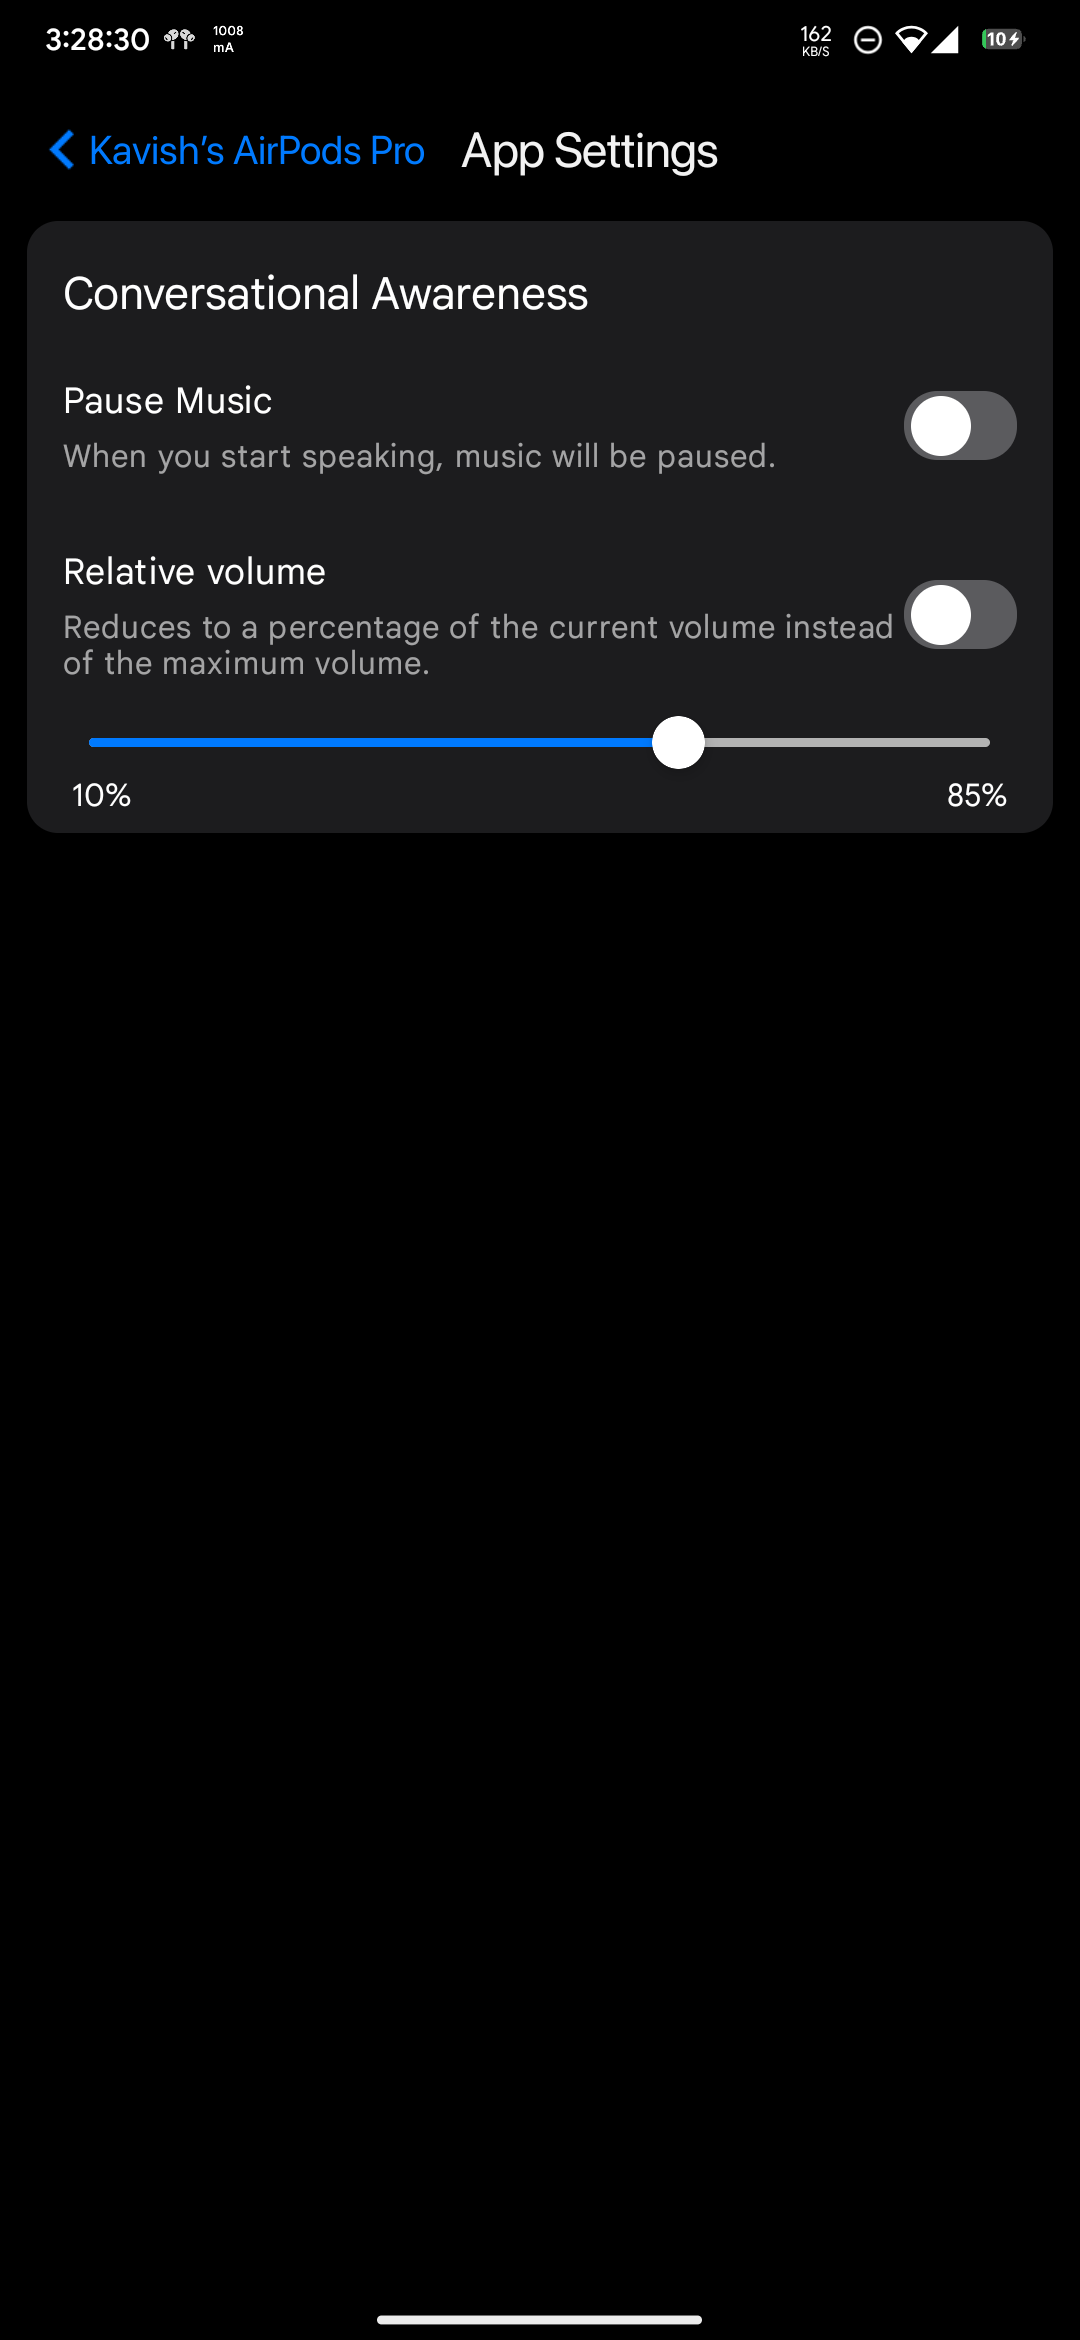
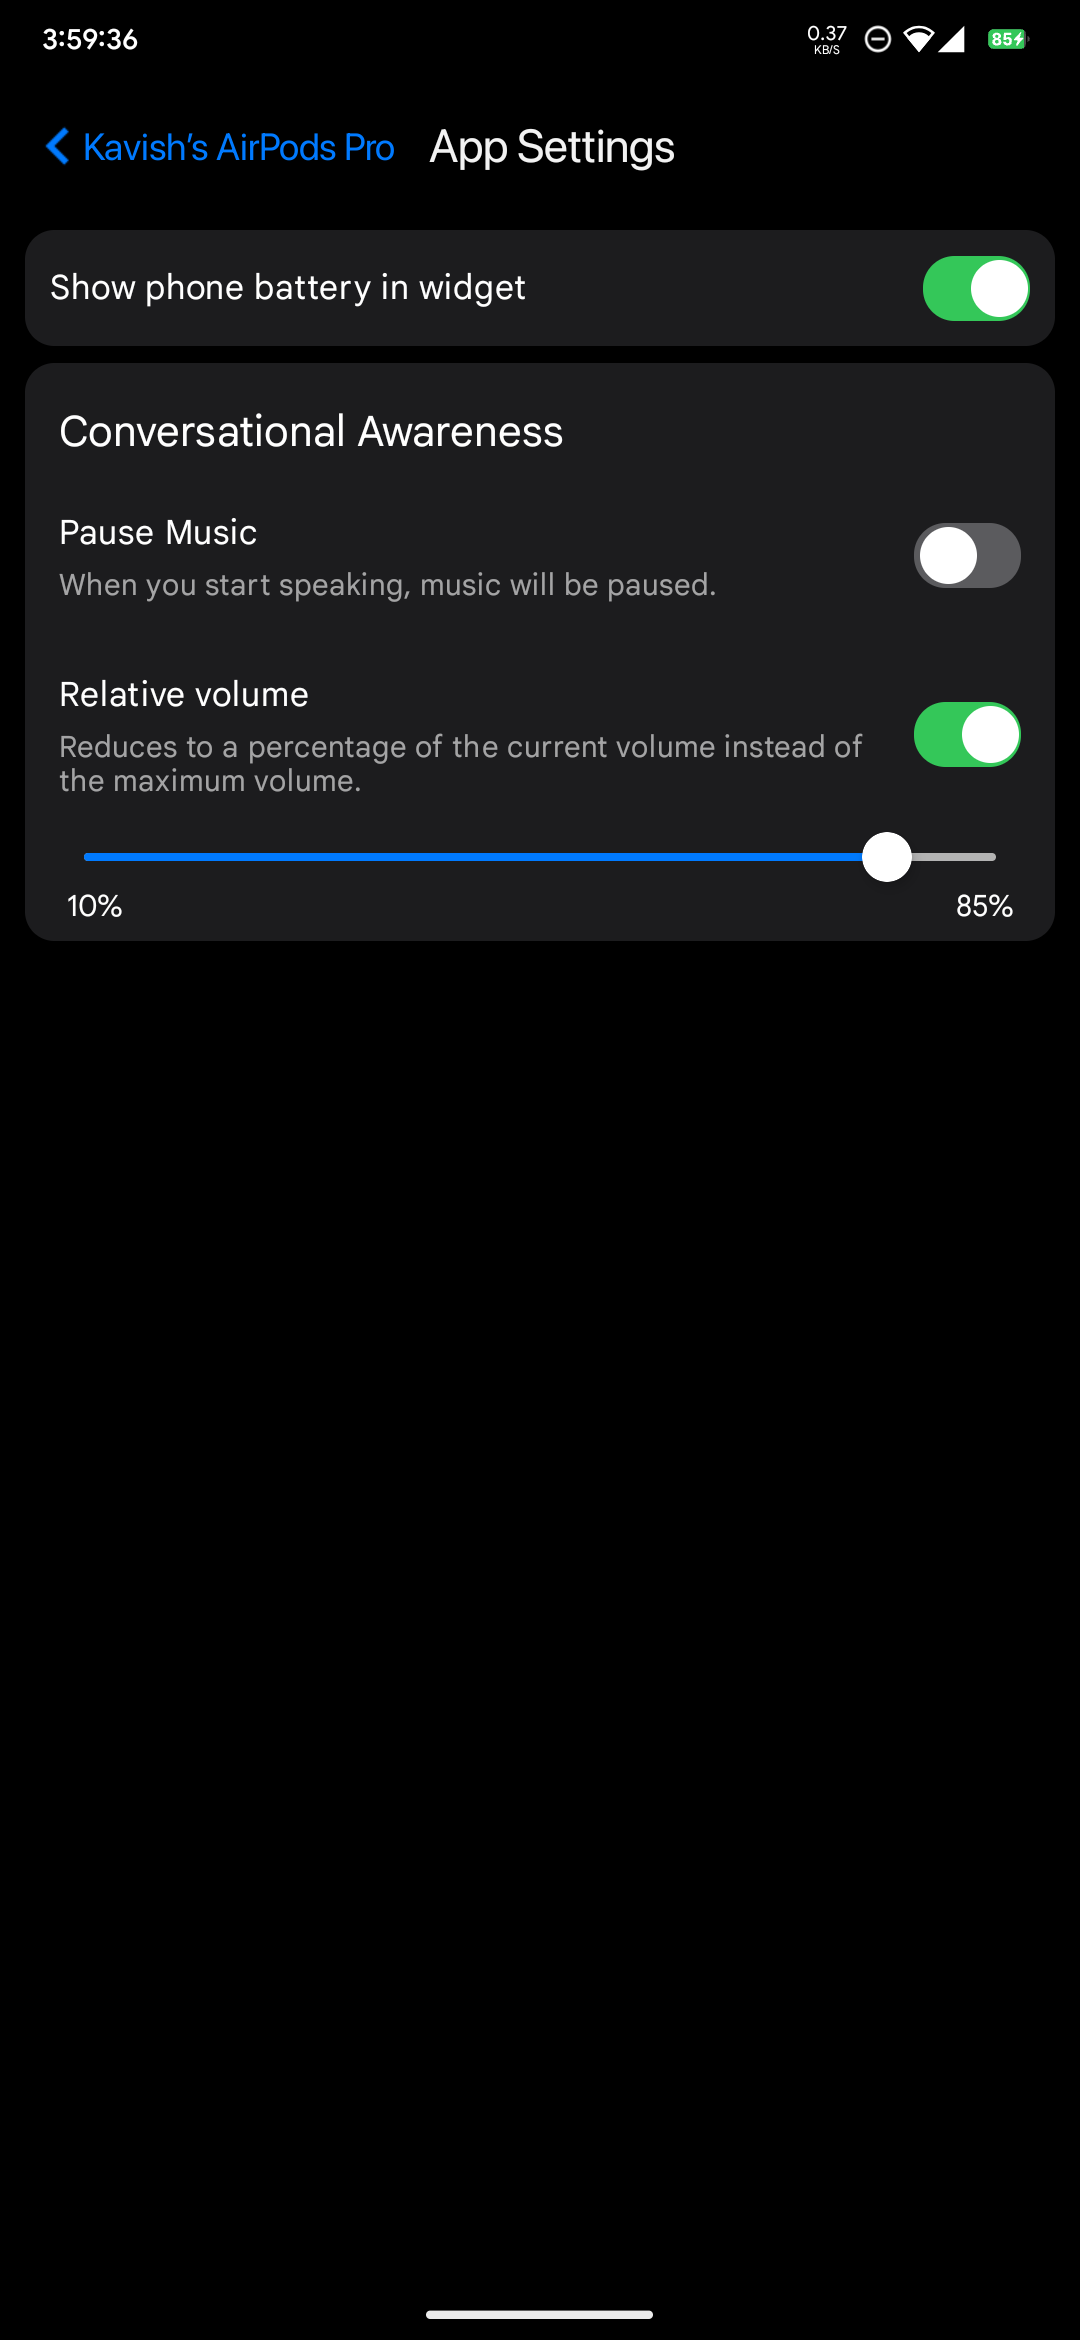
add info button for when remotely connected

diff --git a/android/app/src/main/java/me/kavishdevar/aln/screens/AirPodsSettingsScreen.kt b/android/app/src/main/java/me/kavishdevar/aln/screens/AirPodsSettingsScreen.kt
@@ -1,17 +1,17 @@
 /*
  * AirPods like Normal (ALN) - Bringing Apple-only features to Linux and Android for seamless AirPods functionality!
- * 
+ *
  * Copyright (C) 2024 Kavish Devar
- * 
+ *
  * This program is free software: you can redistribute it and/or modify
  * it under the terms of the GNU Affero General Public License as published
  * by the Free Software Foundation, either version 3 of the License.
- * 
+ *
  * This program is distributed in the hope that it will be useful,
  * but WITHOUT ANY WARRANTY; without even the implied warranty of
  * MERCHANTABILITY or FITNESS FOR A PARTICULAR PURPOSE.  See the
  * GNU Affero General Public License for more details.
- * 
+ *
  * You should have received a copy of the GNU Affero General Public License
  * along with this program. If not, see <https://www.gnu.org/licenses/>.
  */
@@ -34,6 +34,7 @@ import androidx.compose.foundation.layout.padding
 import androidx.compose.foundation.rememberScrollState
 import androidx.compose.foundation.verticalScroll
 import androidx.compose.material.icons.Icons
+import androidx.compose.material.icons.filled.Info
 import androidx.compose.material.icons.filled.Settings
 import androidx.compose.material3.CenterAlignedTopAppBar
 import androidx.compose.material3.ExperimentalMaterial3Api
@@ -41,6 +42,9 @@ import androidx.compose.material3.Icon
 import androidx.compose.material3.IconButton
 import androidx.compose.material3.IconButtonDefaults
 import androidx.compose.material3.Scaffold
+import androidx.compose.material3.SnackbarDuration
+import androidx.compose.material3.SnackbarHost
+import androidx.compose.material3.SnackbarHostState
 import androidx.compose.material3.Text
 import androidx.compose.material3.TopAppBarDefaults
 import androidx.compose.runtime.Composable
@@ -50,6 +54,7 @@ import androidx.compose.runtime.getValue
 import androidx.compose.runtime.mutableFloatStateOf
 import androidx.compose.runtime.mutableStateOf
 import androidx.compose.runtime.remember
+import androidx.compose.runtime.rememberCoroutineScope
 import androidx.compose.runtime.setValue
 import androidx.compose.ui.Alignment
 import androidx.compose.ui.Modifier
@@ -74,6 +79,7 @@ import dev.chrisbanes.haze.haze
 import dev.chrisbanes.haze.hazeChild
 import dev.chrisbanes.haze.materials.CupertinoMaterials
 import dev.chrisbanes.haze.materials.ExperimentalHazeMaterialsApi
+import kotlinx.coroutines.launch
 import me.kavishdevar.aln.R
 import me.kavishdevar.aln.composables.AccessibilitySettings
 import me.kavishdevar.aln.composables.AudioSettings
@@ -117,9 +123,19 @@ fun AirPodsSettingsScreen(dev: BluetoothDevice?, service: AirPodsService,
         }
     }
 
-
     val verticalScrollState  = rememberScrollState()
     val hazeState = remember { HazeState() }
+    val snackbarHostState = remember { SnackbarHostState() }
+    val coroutineScope = rememberCoroutineScope()
+
+    fun showSnackbar(message: String) {
+        coroutineScope.launch {
+            snackbarHostState.showSnackbar(
+                message = message,
+                duration = SnackbarDuration.Short
+            )
+        }
+    }
 
     @SuppressLint("UnusedMaterial3ScaffoldPaddingParameter")
     Scaffold(
@@ -131,47 +147,48 @@ fun AirPodsSettingsScreen(dev: BluetoothDevice?, service: AirPodsService,
         topBar = {
             val darkMode = isSystemInDarkTheme()
             val mDensity = remember { mutableFloatStateOf(1f) }
-                CenterAlignedTopAppBar(
-                    title = {
-                        Text(
-                            text = deviceName.text,
-                            style = TextStyle(
-                                fontSize = 20.sp,
-                                fontWeight = FontWeight.Medium,
-                                color = if (darkMode) Color.White else Color.Black,
-                                fontFamily = FontFamily(Font(R.font.sf_pro))
+            CenterAlignedTopAppBar(
+                title = {
+                    Text(
+                        text = deviceName.text,
+                        style = TextStyle(
+                            fontSize = 20.sp,
+                            fontWeight = FontWeight.Medium,
+                            color = if (darkMode) Color.White else Color.Black,
+                            fontFamily = FontFamily(Font(R.font.sf_pro))
+                        )
+                    )
+                },
+                modifier = Modifier
+                    .hazeChild(
+                        state = hazeState,
+                        style = CupertinoMaterials.thick(),
+                        block = {
+                            alpha =
+                                if (verticalScrollState.value > 60.dp.value * mDensity.floatValue) 1f else 0f
+                        }
+                    )
+                    .drawBehind {
+                        mDensity.floatValue = density
+                        val strokeWidth = 0.7.dp.value * density
+                        val y = size.height - strokeWidth / 2
+                        if (verticalScrollState.value > 60.dp.value * density) {
+                            drawLine(
+                                if (darkMode) Color.DarkGray else Color.LightGray,
+                                Offset(0f, y),
+                                Offset(size.width, y),
+                                strokeWidth
                             )
-                        )
+                        }
                     },
-                    modifier = Modifier
-                        .hazeChild(
-                            state = hazeState,
-                            style = CupertinoMaterials.thick(),
-                            block = {
-                                alpha =
-                                    if (verticalScrollState.value > 55.dp.value * mDensity.floatValue) 1f else 0f
-                            }
-                        )
-                        .drawBehind {
-                            mDensity.floatValue = density
-                            val strokeWidth = 0.7.dp.value * density
-                            val y = size.height - strokeWidth / 2
-                            if (verticalScrollState.value > 55.dp.value * density) {
-                                drawLine(
-                                    if (darkMode) Color.DarkGray else Color.LightGray,
-                                    Offset(0f, y),
-                                    Offset(size.width, y),
-                                    strokeWidth
-                                )
-                            }
-                        },
-                    colors = TopAppBarDefaults.centerAlignedTopAppBarColors(
-                        containerColor = Color.Transparent
-                    ),
-                    actions = {
+                colors = TopAppBarDefaults.centerAlignedTopAppBarColors(
+                    containerColor = Color.Transparent
+                ),
+                actions = {
+                    if (isRemotelyConnected) {
                         IconButton(
                             onClick = {
-                                navController.navigate("app_settings")
+                                showSnackbar("Connected remotely to AirPods via Linux.")
                             },
                             colors = IconButtonDefaults.iconButtonColors(
                                 containerColor = Color.Transparent,
@@ -179,13 +196,29 @@ fun AirPodsSettingsScreen(dev: BluetoothDevice?, service: AirPodsService,
                             )
                         ) {
                             Icon(
-                                imageVector = Icons.Default.Settings,
-                                contentDescription = "Settings",
+                                imageVector = Icons.Default.Info,
+                                contentDescription = "Info",
                             )
                         }
                     }
-                )
-        }
+                    IconButton(
+                        onClick = {
+                            navController.navigate("app_settings")
+                        },
+                        colors = IconButtonDefaults.iconButtonColors(
+                            containerColor = Color.Transparent,
+                            contentColor = if (isSystemInDarkTheme()) Color.White else Color.Black
+                        )
+                    ) {
+                        Icon(
+                            imageVector = Icons.Default.Settings,
+                            contentDescription = "Settings",
+                        )
+                    }
+                }
+            )
+        },
+        snackbarHost = { SnackbarHost(snackbarHostState) }
     ) { paddingValues ->
         if (isConnected == true || isRemotelyConnected == true) {
             Column(
